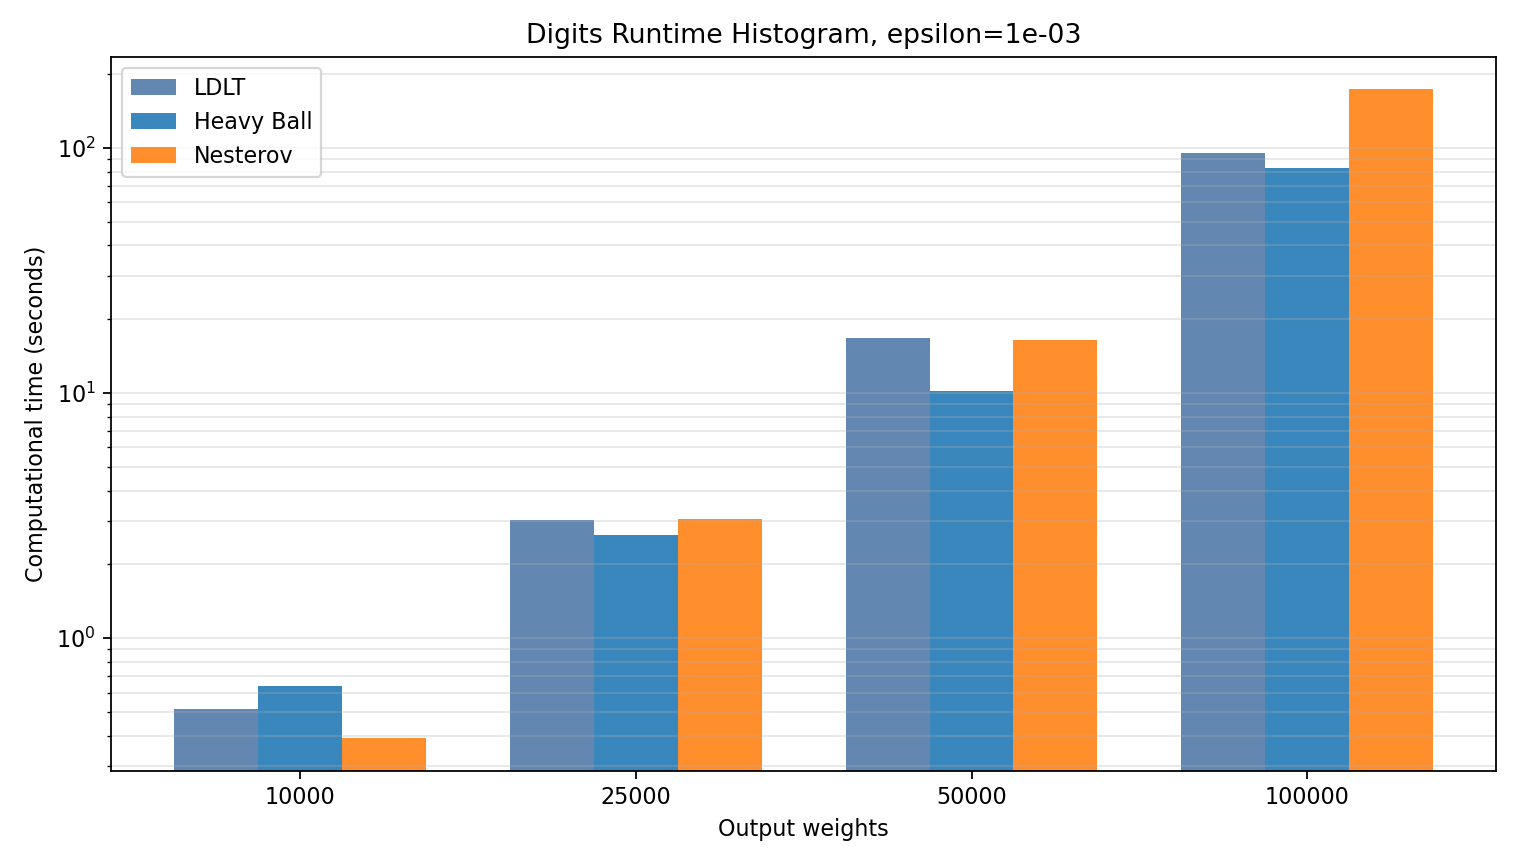
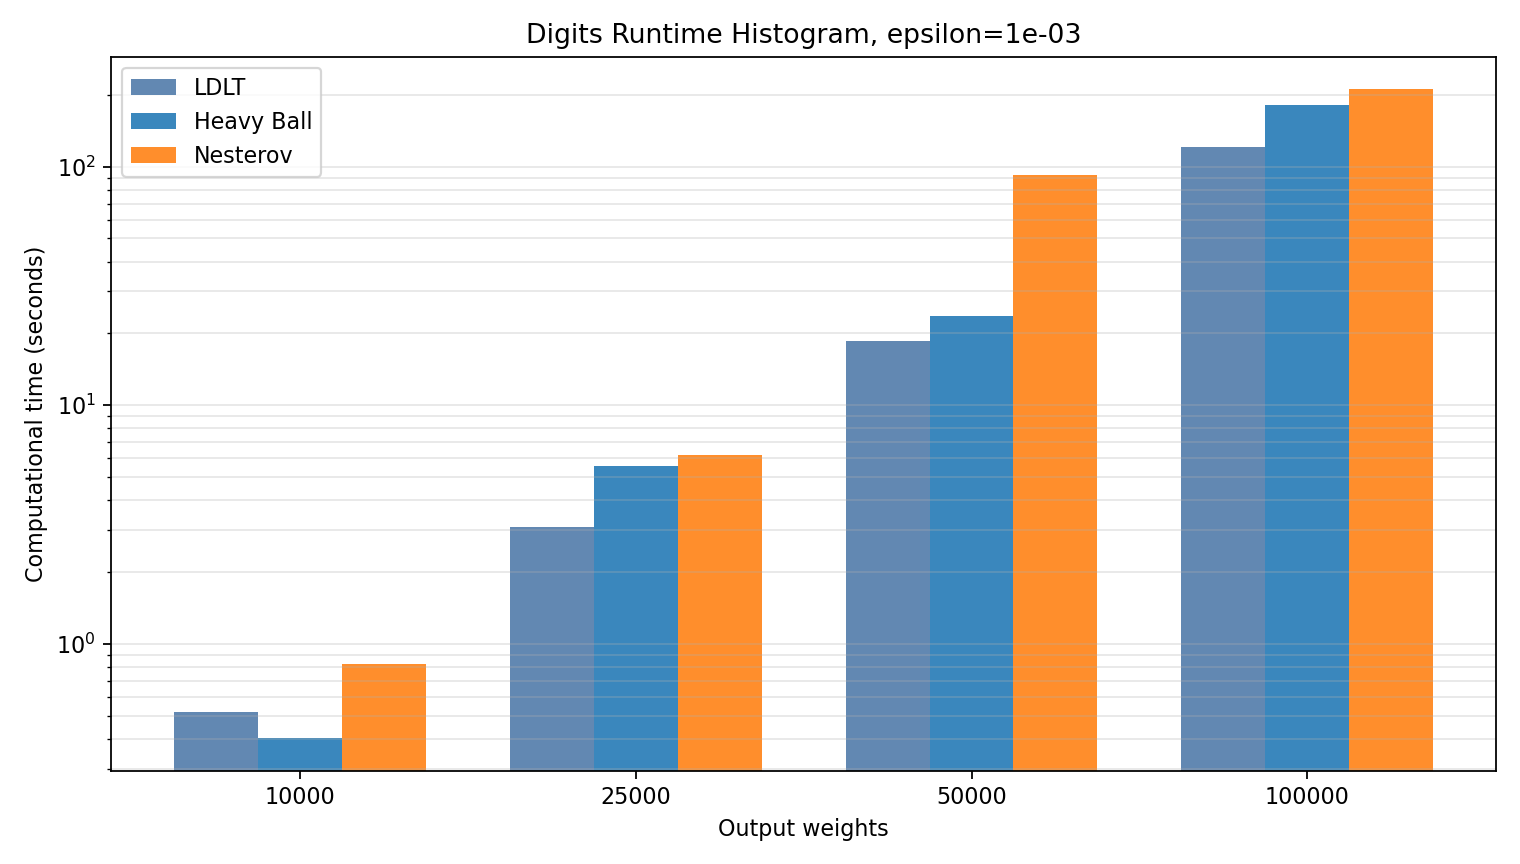
graph convergence

diff --git a/run_experiments.py b/run_experiments.py
@@ -369,6 +369,17 @@ REQUESTED_REAL_TIME_FIELDS = [
     "computational_time",
 ]
 
+REQUESTED_ITERATIVE_HISTORY_FIELDS = [
+    "method",
+    "iteration",
+    "gradient_norm",
+    "relative_gap",
+    "parameter_name",
+    "parameter_value",
+    "dimensionality",
+    "epsilon",
+]
+
 REAL_PYTORCH_COMPARISON_FIELDS = [
     "algorithm",
     "dataset",
@@ -657,7 +668,13 @@ def main():
         remove_old_dimension_scaling_outputs(output_dir, figures_dir)
 
         output_path = output_dir / "handwritten_dimension_scaling_times.csv"
+        scratch_history_path = output_dir / "requested_real_digits_scratch_iterative.csv"
         write_csv(output_path, HANDWRITTEN_DIMENSION_SCALING_FIELDS, rows)
+        write_csv(
+            scratch_history_path,
+            REQUESTED_ITERATIVE_HISTORY_FIELDS,
+            scratch_history_rows,
+        )
         plot_handwritten_dimension_scaling_times(rows, figures_dir)
         plot_handwritten_dimension_scaling_histogram(rows, figures_dir)
         plot_requested_real_digits_scratch_iterative_scaling(
@@ -667,6 +684,7 @@ def main():
         )
 
         print("Wrote " + str(output_path))
+        print("Wrote " + str(scratch_history_path))
         return
 
     if args.only_synthetic_parameter_sweeps:
@@ -6165,6 +6183,7 @@ def remove_old_dimension_scaling_outputs(output_dir, figures_dir):
 
     csv_names = [
         "requested_dimension_scaling_times.csv",
+        "requested_real_digits_scratch_iterative.csv",
     ]
     figure_names = [
         "requested_dimension_scaling_times.png",
